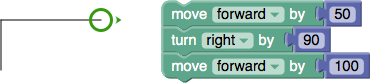
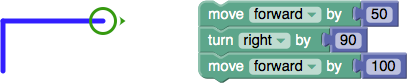
Adding binary files for the puzzle.
git-svn-id: https://blockly.googlecode.com/svn/trunk@766 c400ca83-b69d-9dd7-9705-49c6b8615e23

Changed region(s): [[0.4162, 0.0, 1.0, 1.0], [0.0, 0.0723, 0.327, 0.8916]]

diff --git a/apps/turtle/blocks.js b/apps/turtle/blocks.js
@@ -55,7 +55,7 @@ Blockly.Language.draw_turn_right_90 = {
     this.setColour(160);
     this.appendDummyInput()
         .appendTitle(MSG.turnRight)
-        .appendTitle('90');
+        .appendTitle('90\u00B0');
     this.setPreviousStatement(true);
     this.setNextStatement(true);
     this.setTooltip(MSG.turnRight90Tooltip);

diff --git a/apps/turtle/index.html b/apps/turtle/index.html
@@ -22,7 +22,7 @@
       Turtle Graphics</h1>
 
   <p>
-    <img src="title.png" height=83 width=370 style="padding: 1em; background-color: #f0f0f0;">
+    <img src="title.png" height=83 width=407 style="padding: 1em; background-color: #f0f0f0;">
   </p>
 
   <p>Choose a language to get started:</p>
